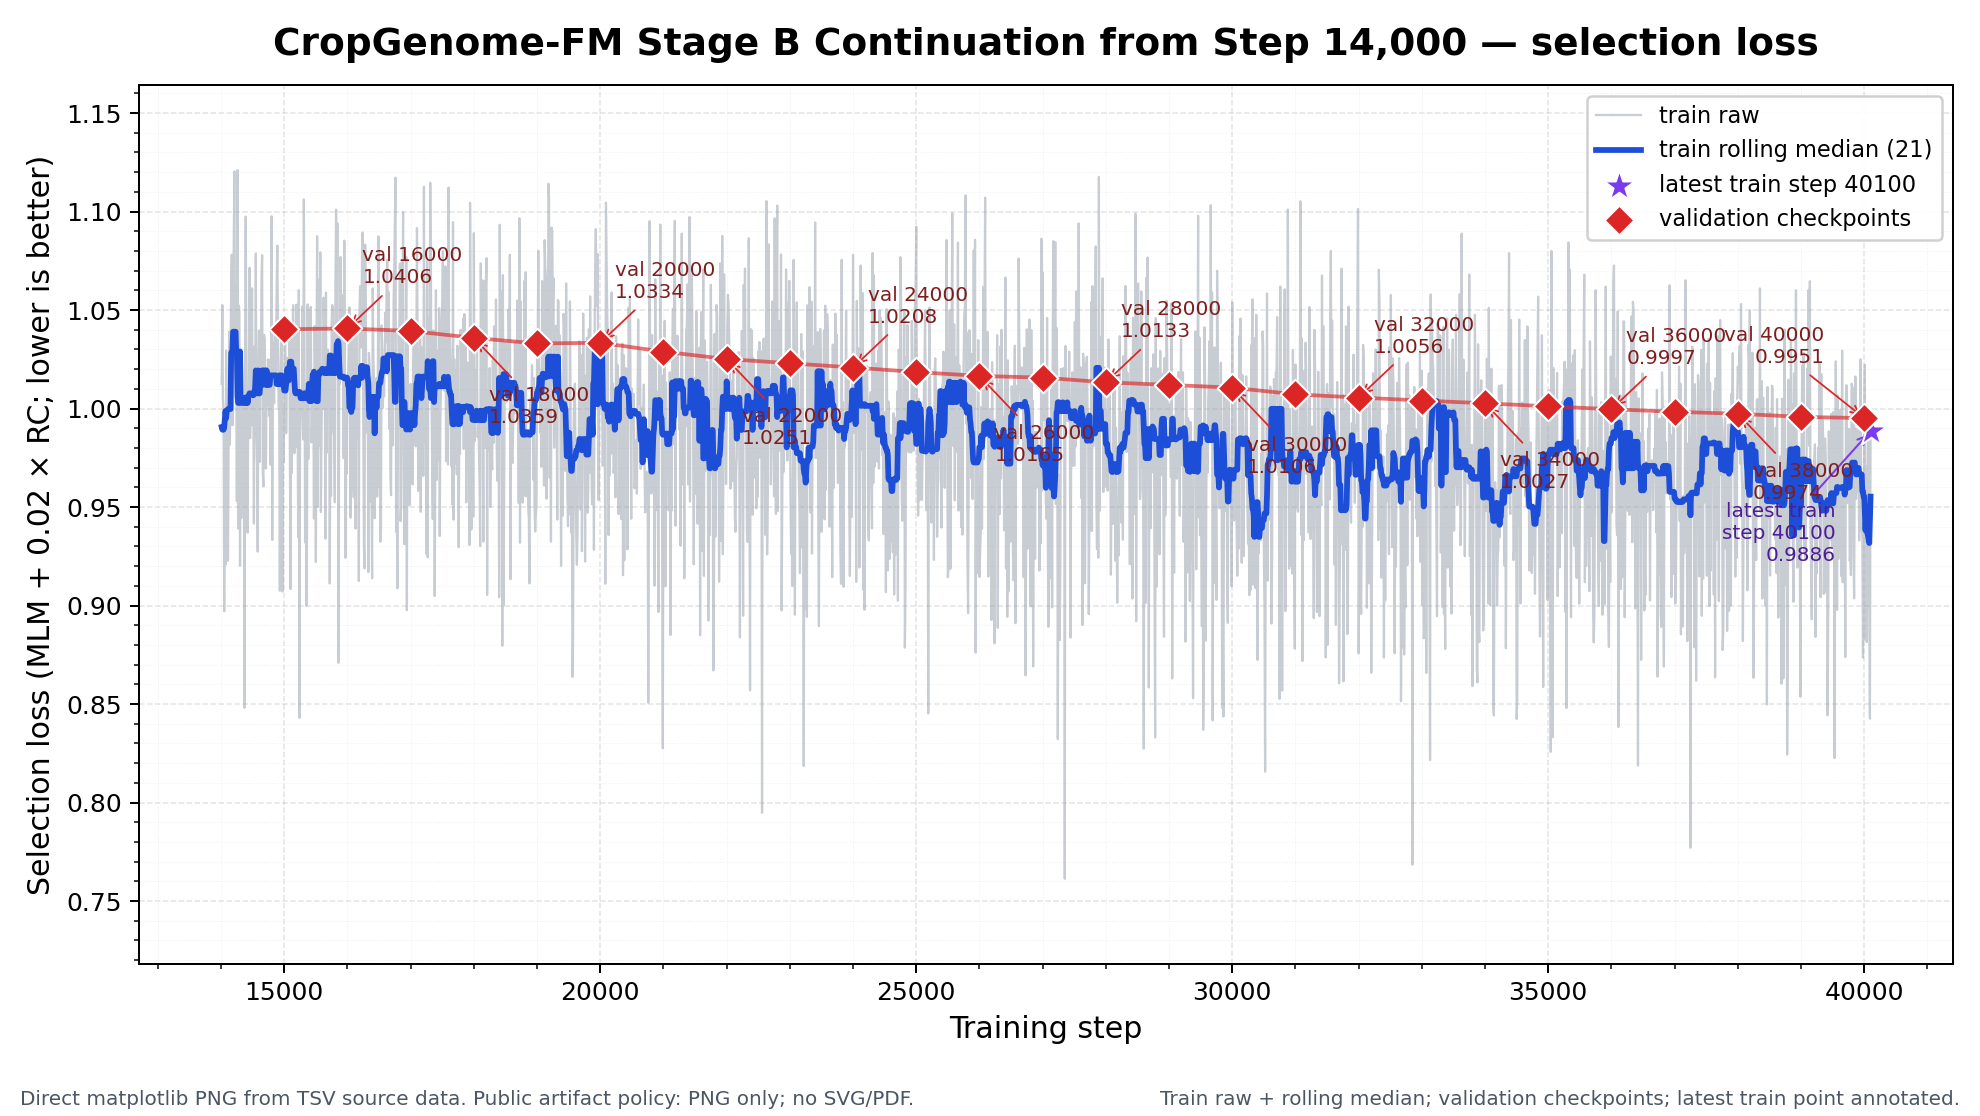
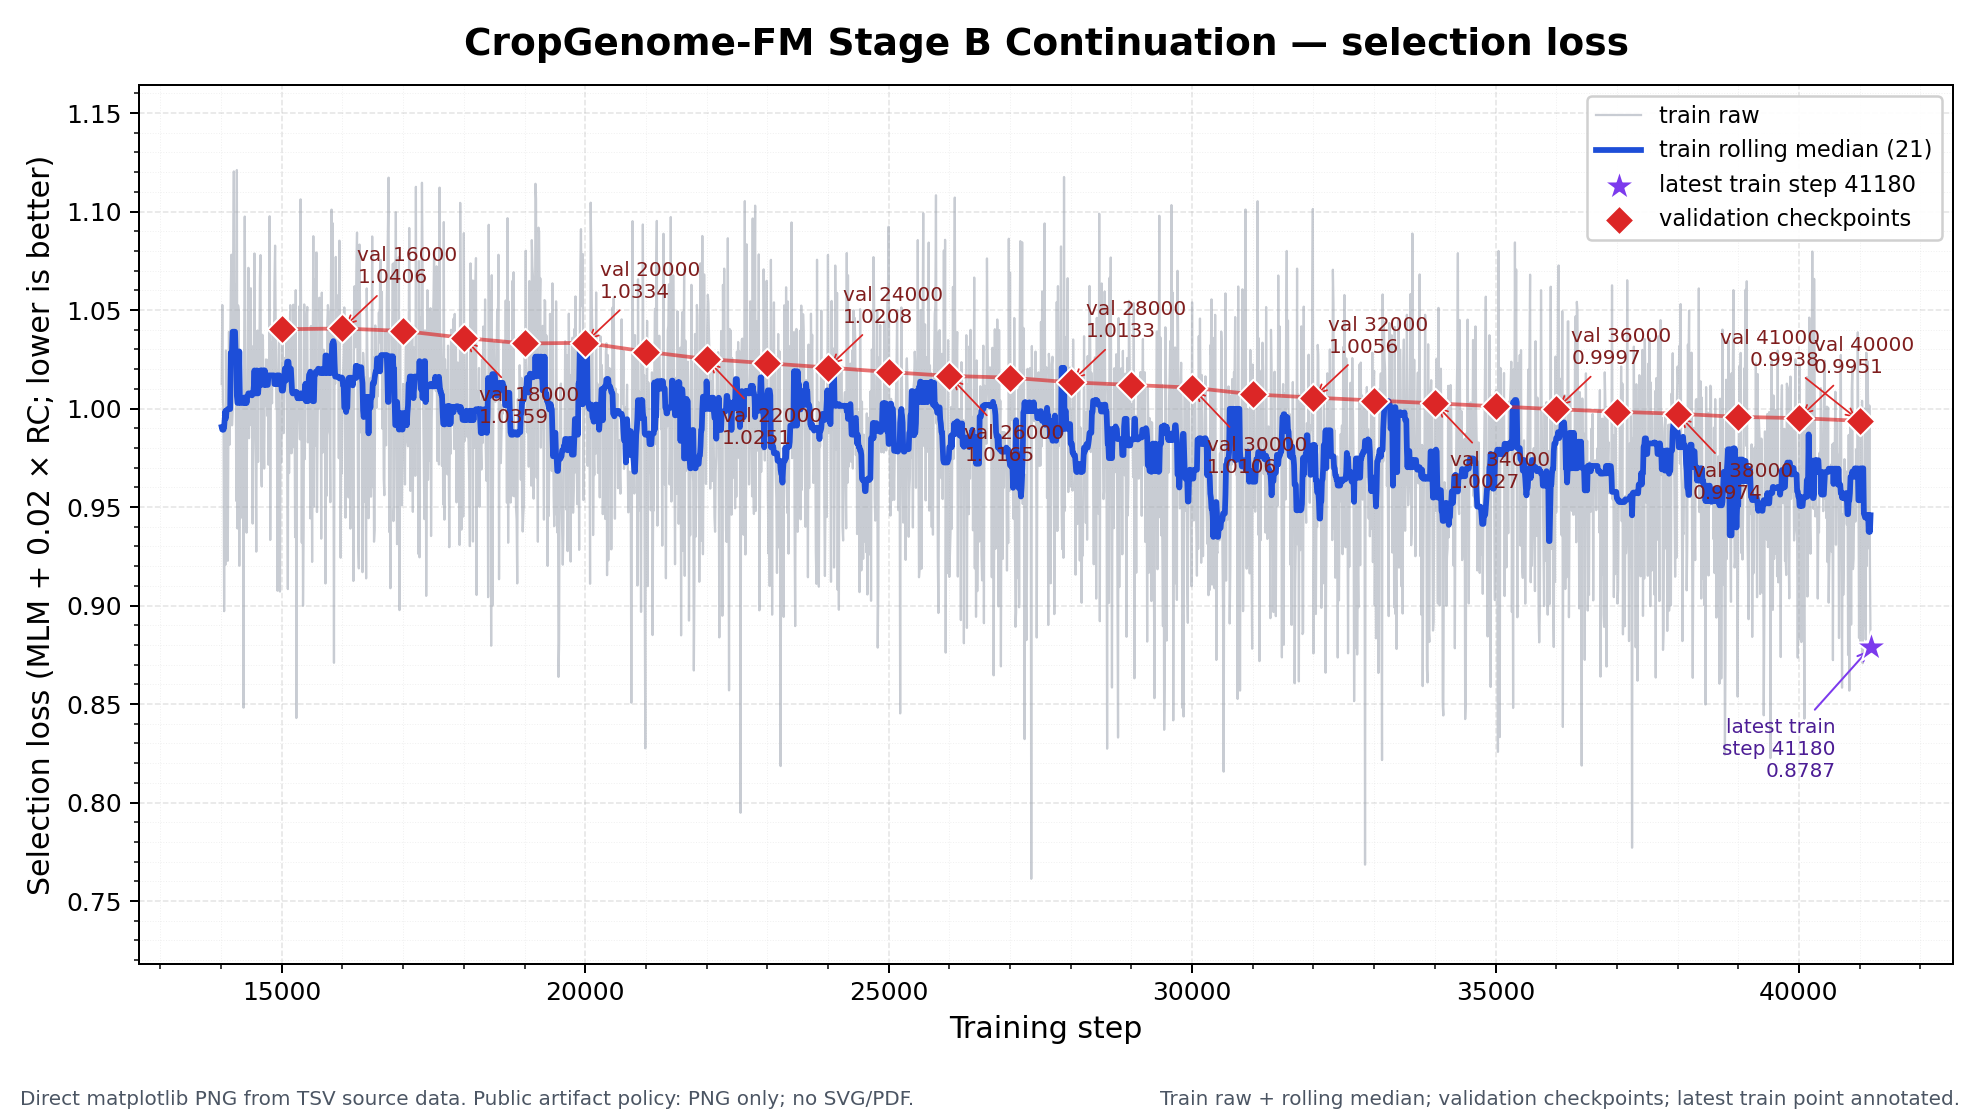
docs: update progress through step 41000

diff --git a/TRAINING_PROGRESS.md b/TRAINING_PROGRESS.md
@@ -1,6 +1,6 @@
 # CropGenome-FM训练进展
 
-更新时间：2026-08-02 17:31 CST
+更新时间：2026-08-02 21:42 CST
 
 ## 1. 当前训练状态
 
@@ -8,10 +8,10 @@
 |---|---|
 |运行状态|RUNNING|
 |阶段|Stage B continuation；从step14000精确续训|
-|最新公开里程碑|step40000 / 50000（80%）|
-|最新验证点|step40000|
-|当前最佳验证点|step40000|
-|best val selection loss|0.9951305|
+|最新公开里程碑|step41000 / 50000（82%）|
+|最新验证点|step41000|
+|当前最佳验证点|step41000|
+|best val selection loss|0.9937523|
 |训练资源|gpu10，3×NVIDIA A100-SXM4-40GB，GPU0–2|
 |实时核验|3个训练rank各约37.5GB；训练日志仍在增长|
 |全局有效batch|36（每rank micro-batch 4 × 3 ranks × 梯度累积3）|
@@ -53,8 +53,9 @@
 |38000|1.0641|0.9939|0.1731|0.9974|1.3346|0.4896|
 |39000|1.0614|0.9923|0.1736|0.9958|1.3133|0.5365|
 |40000|1.0622|0.9916|0.1742|0.9951|1.3405|0.5260|
+|41000|1.0573|0.9903|0.1717|0.9938|1.2709|0.5104|
 
-从正式候选起点step16000到step40000，validation selection loss由1.0406386降至0.9951305，下降0.0455081（约4.37%）。总体趋势继续改善，但total loss和辅助region指标并非每个点都严格单调，最终模型价值仍必须由固定下游任务验证。
+从正式候选起点step16000到step41000，validation selection loss由1.0406386降至0.9937523，下降0.0468863（约4.51%）。总体趋势继续改善，但total loss和辅助region指标并非每个点都严格单调，最终模型价值仍必须由固定下游任务验证。
 
 ## 3. 曲线与源数据
 
